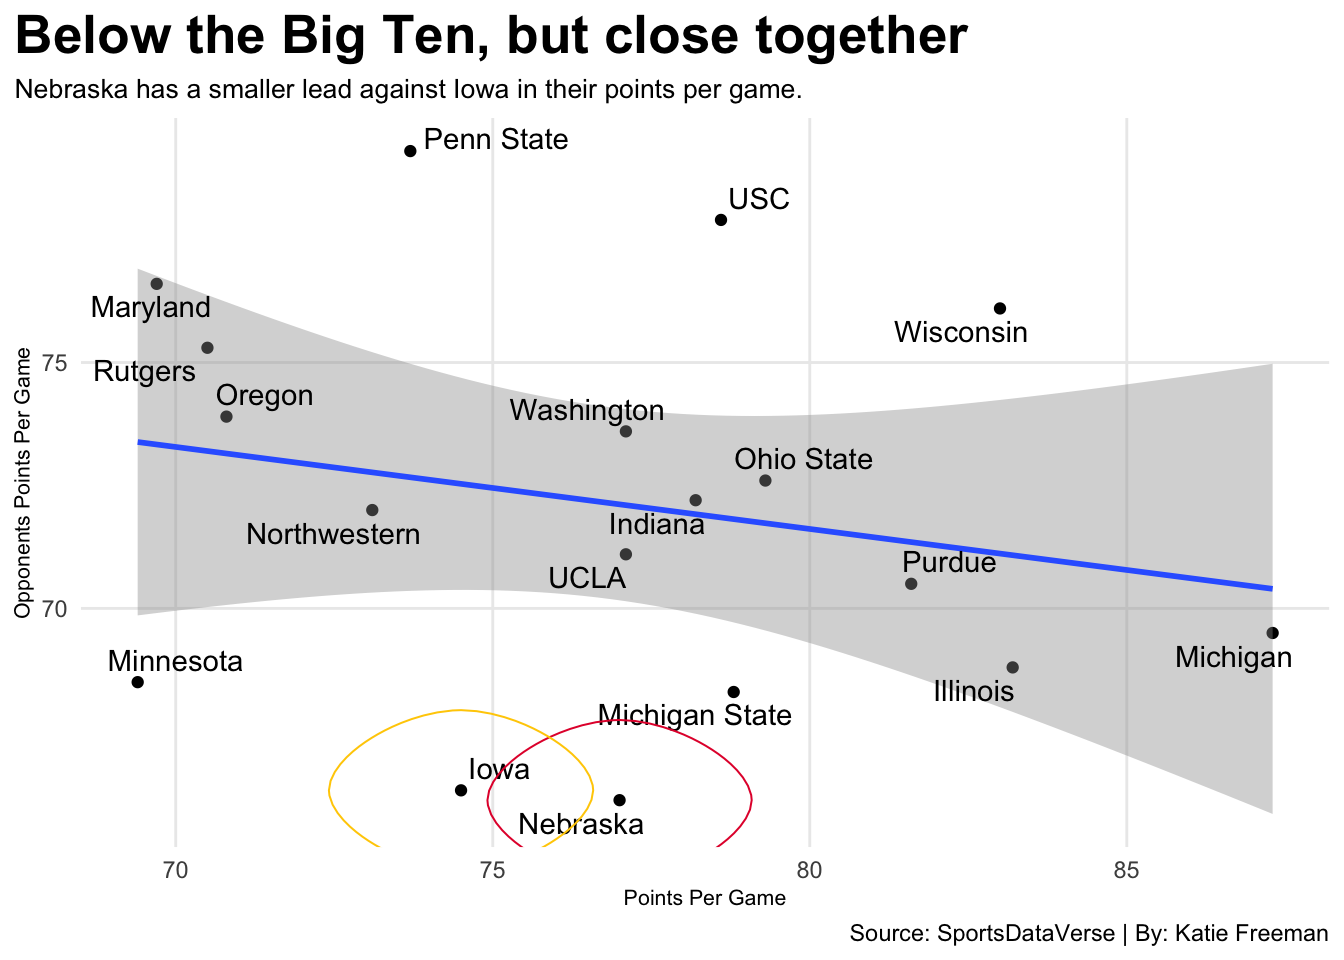
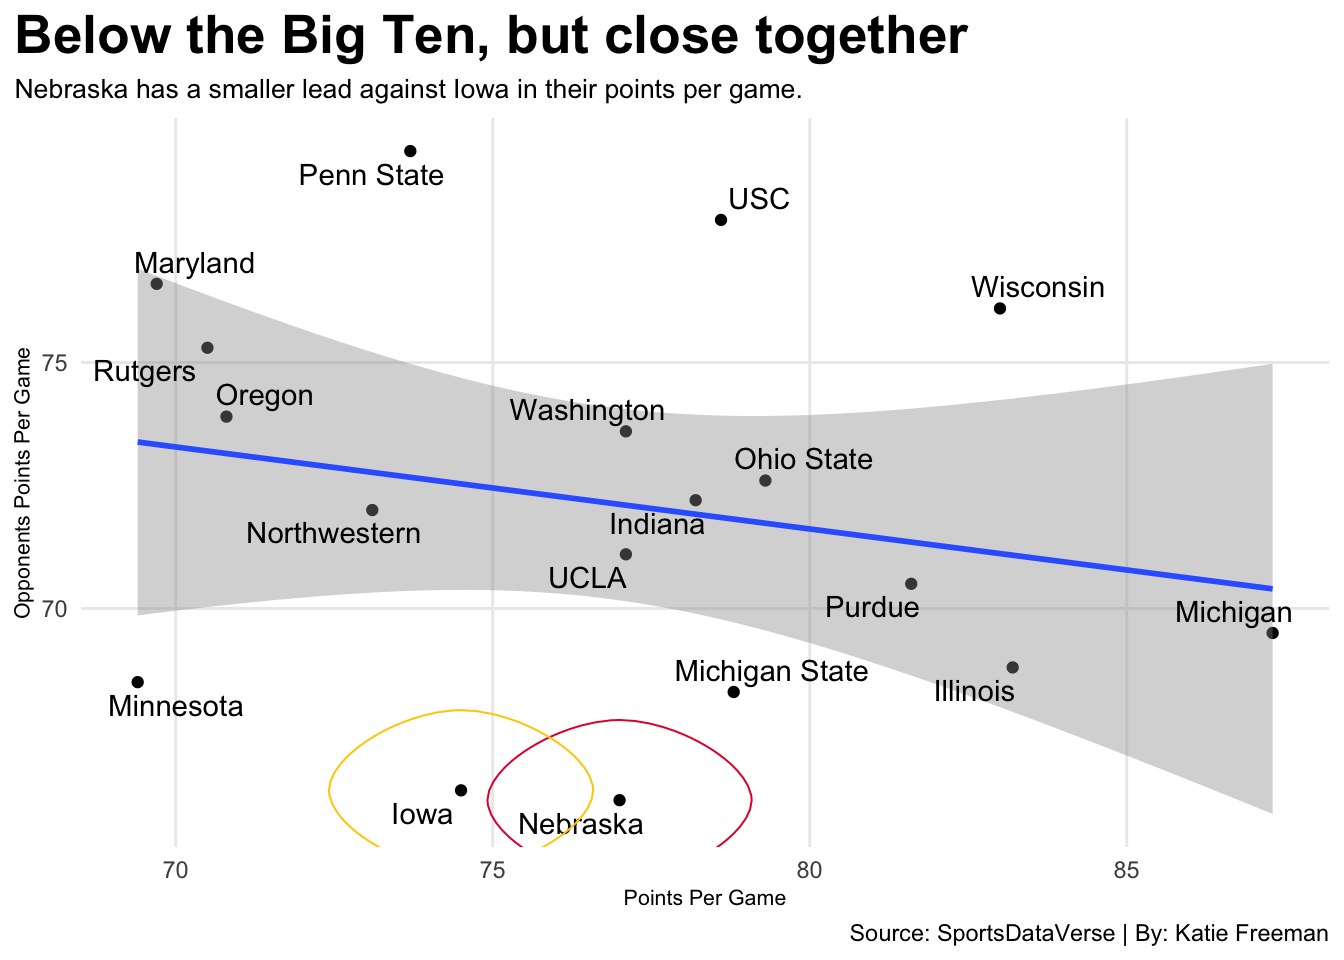
small edits

diff --git a/posts/nebraska-iowa-mens-basketball/index.html b/posts/nebraska-iowa-mens-basketball/index.html
@@ -475,7 +475,7 @@ pre > code.sourceCode > span > a:first-child::before { text-decoration: underlin
 <span id="cb4-50"><a href="#cb4-50" aria-hidden="true" tabindex="-1"></a>  ) <span class="sc">&amp;</span> </span>
 <span id="cb4-51"><a href="#cb4-51" aria-hidden="true" tabindex="-1"></a>  <span class="fu">theme</span>(</span>
 <span id="cb4-52"><a href="#cb4-52" aria-hidden="true" tabindex="-1"></a>    <span class="at">plot.title =</span> <span class="fu">element_text</span>(<span class="at">size =</span> <span class="dv">20</span>, <span class="at">face =</span> <span class="st">"bold"</span>),</span>
-<span id="cb4-53"><a href="#cb4-53" aria-hidden="true" tabindex="-1"></a>    <span class="at">axis.title =</span> <span class="fu">element_text</span>(<span class="at">size =</span> <span class="dv">8</span>), </span>
+<span id="cb4-53"><a href="#cb4-53" aria-hidden="true" tabindex="-1"></a>    <span class="at">axis.title =</span> <span class="fu">element_text</span>(<span class="at">size =</span> <span class="dv">10</span>), </span>
 <span id="cb4-54"><a href="#cb4-54" aria-hidden="true" tabindex="-1"></a>    <span class="at">plot.subtitle =</span> <span class="fu">element_text</span>(<span class="at">size=</span><span class="dv">12</span>), </span>
 <span id="cb4-55"><a href="#cb4-55" aria-hidden="true" tabindex="-1"></a>    <span class="at">panel.grid.minor =</span> <span class="fu">element_blank</span>()</span>
 <span id="cb4-56"><a href="#cb4-56" aria-hidden="true" tabindex="-1"></a>  )</span></code></pre></div><button title="Copy to Clipboard" class="code-copy-button"><i class="bi"></i></button></div>

diff --git a/index.html b/index.html
@@ -373,7 +373,7 @@ window.Quarto = {
 
 <div class="quarto-listing quarto-listing-container-default" id="listing-listing">
 <div class="list quarto-listing-default">
-<div class="quarto-post image-right" data-index="0" data-categories="YmlndGVuJTJDYmFza2V0YmFsbCUyQ25lYnJhc2thJTJDaW93YQ==" data-listing-date-sort="1777266000000" data-listing-file-modified-sort="1777312015272" data-listing-date-modified-sort="NaN" data-listing-reading-time-sort="6" data-listing-word-count-sort="1140">
+<div class="quarto-post image-right" data-index="0" data-categories="YmlndGVuJTJDYmFza2V0YmFsbCUyQ25lYnJhc2thJTJDaW93YQ==" data-listing-date-sort="1777266000000" data-listing-file-modified-sort="1777312319625" data-listing-date-modified-sort="NaN" data-listing-reading-time-sort="6" data-listing-word-count-sort="1140">
 <div class="thumbnail"><a href="./posts/nebraska-iowa-mens-basketball/index.html" class="no-external">
 
 <img loading="lazy" src="./posts/nebraska-iowa-mens-basketball/image.png" class="thumbnail-image">
